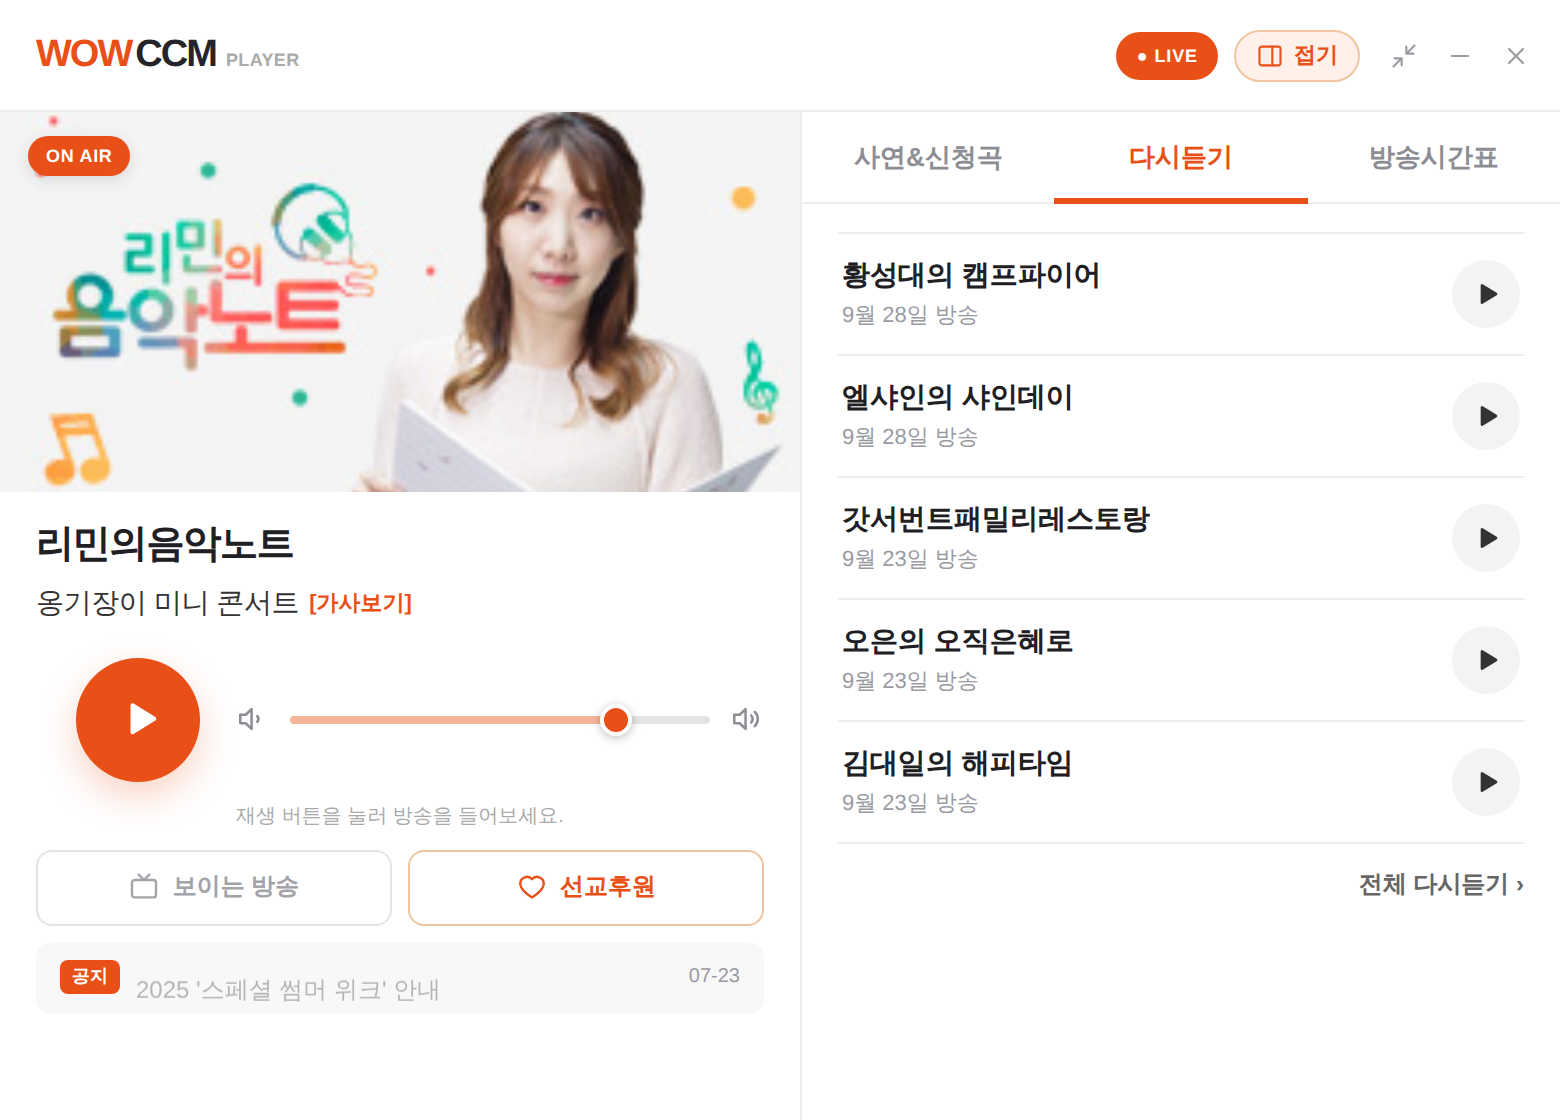
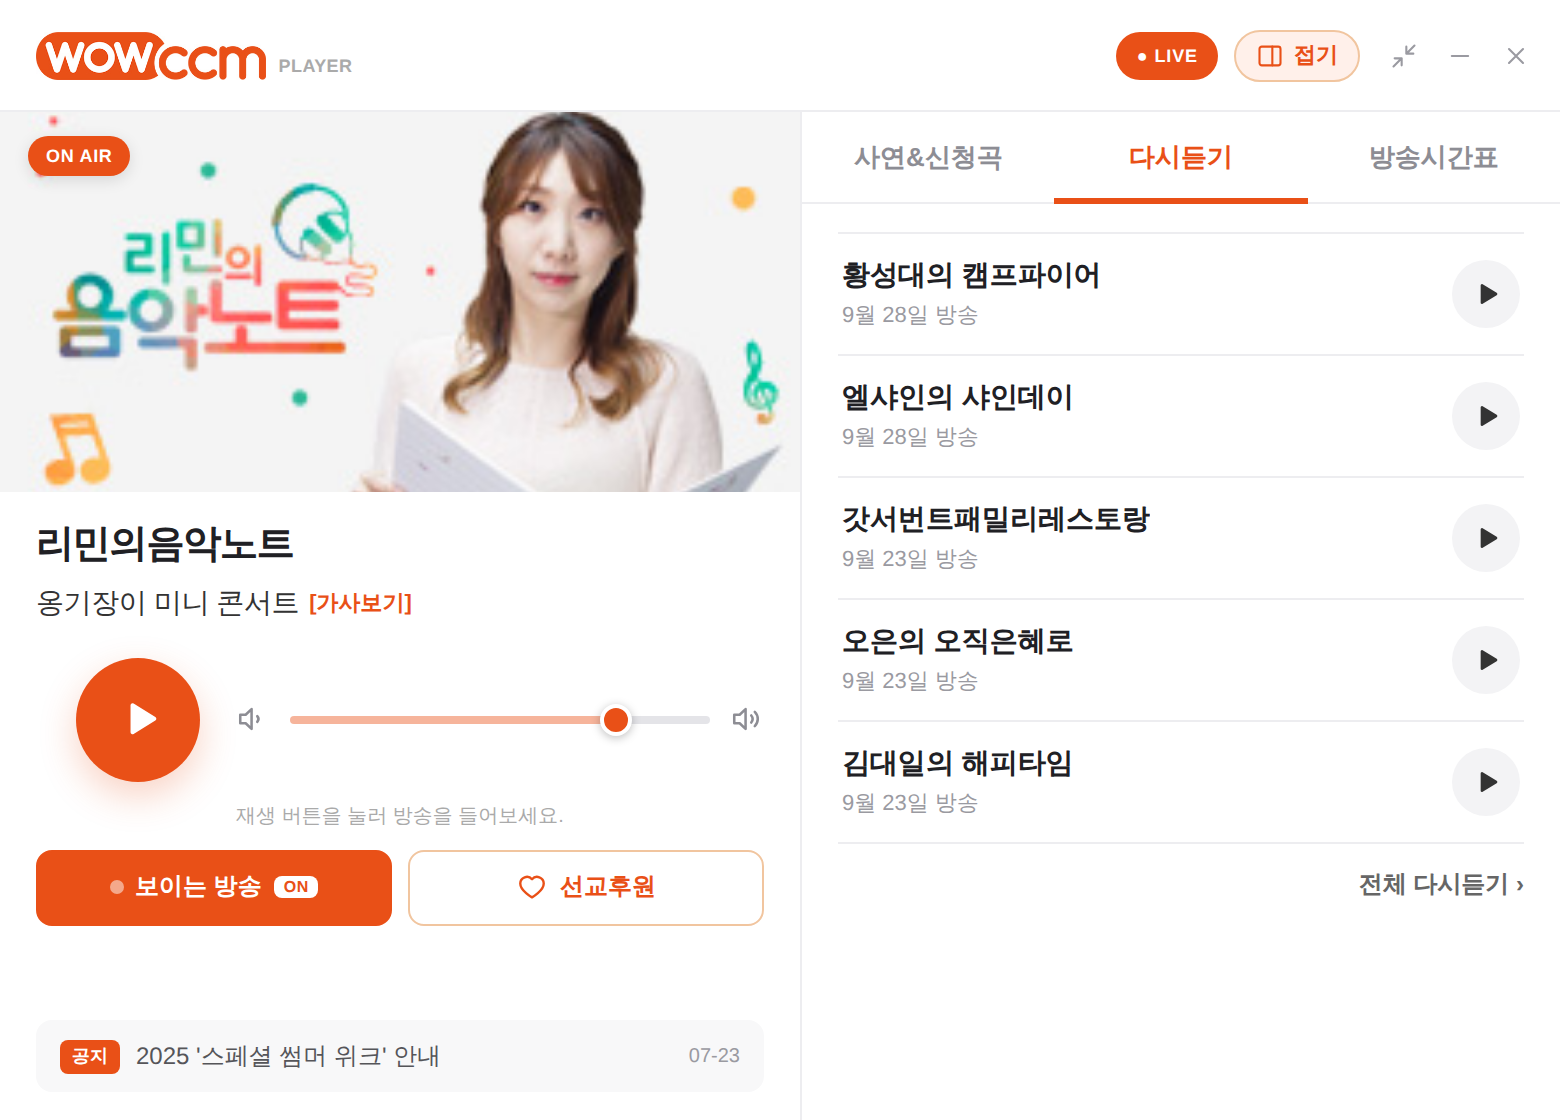
와우씨씨엠 로고 이미지 적용, 공지를 왼쪽 창 맨 아래로 이동
- 헤더 로고를 홈페이지 로고(wowccm_logo.jpg)로 교체
- 남는 공간을 버튼과 공지 사이로 보내 공지가 오른쪽 사연 입력창과 같은 높이에 오도록 함

Claude-Session: https://claude.ai/code/session_018gPLBYPafc4p3ZkZAQycUv

Changed region(s): [[0.0, 0.75, 0.2769, 0.9688], [0.0, 0.0312, 0.2154, 0.0938]]

diff --git a/src/styles.css b/src/styles.css
@@ -30,7 +30,10 @@ input { font: inherit; color: inherit; }
 .app { display: flex; flex-direction: column; height: 100%; }
 /* 왼쪽: 플레이어(폭 고정) / 오른쪽: 사연·다시듣기·방송시간표 */
 .body { flex: 1; min-height: 0; display: flex; }
-.player-col { flex: 0 0 400px; width: 400px; min-height: 0; overflow-y: auto; overflow-x: hidden; background: #fff; }
+.player-col {
+  flex: 0 0 400px; width: 400px; min-height: 0; overflow-y: auto; overflow-x: hidden; background: #fff;
+  display: flex; flex-direction: column;
+}
 .side { flex: 1; min-width: 0; display: flex; flex-direction: column; border-left: 1px solid var(--line); background: #fff; }
 .side__body { flex: 1; min-height: 0; overflow-y: auto; }
 
@@ -40,9 +43,9 @@ input { font: inherit; color: inherit; }
   display: flex; align-items: center; justify-content: space-between;
   background: #fff; border-bottom: 1px solid var(--line);
 }
-.logo { display: flex; align-items: baseline; font-size: 19px; font-weight: 900; letter-spacing: -1px; color: #252529; }
-.logo__wow { color: var(--accent); margin-right: 2px; }
-.logo small { margin-left: 5px; font-size: 9px; font-weight: 800; letter-spacing: 0.2px; color: #aaa; }
+.logo { display: flex; align-items: flex-end; gap: 6px; }
+.logo__img { display: block; height: 24px; width: auto; }
+.logo small { font-size: 9px; font-weight: 800; letter-spacing: 0.2px; color: #aaa; line-height: 1; padding-bottom: 2px; }
 .header__right { display: flex; align-items: center; gap: 8px; }
 .live, .sidebtn { white-space: nowrap; flex-shrink: 0; }
 /* 오른쪽 창을 접은 좁은 화면에서는 로고 옆 PLAYER 글자를 숨긴다 */
@@ -134,7 +137,9 @@ input { font: inherit; color: inherit; }
 .controls__status { margin: 10px 0 0; text-align: center; font-size: 10px; color: #aaa; min-height: 14px; }
 
 /* 보이는 방송·선교후원·공지 */
-.extras { padding: 0 18px 16px; background: #fff; display: flex; flex-direction: column; gap: 8px; }
+.extras { flex: 1; padding: 0 18px 14px; background: #fff; display: flex; flex-direction: column; gap: 8px; }
+/* 남는 공간은 버튼과 공지 사이로 보내 공지를 창 맨 아래에 붙인다 */
+.extras .notice { margin-top: auto; }
 .extras__links { display: grid; grid-template-columns: 1fr 1fr; gap: 8px; }
 .linkbtn {
   display: flex; align-items: center; justify-content: center; gap: 6px; height: 38px;

diff --git a/src/components/Header.tsx b/src/components/Header.tsx
@@ -12,8 +12,8 @@ export function Header({ onAir, onMini, sideOpen, onToggleSide }: Props) {
   return (
     <header className="header" data-tauri-drag-region>
       <div className="logo" data-tauri-drag-region>
-        <span className="logo__wow">WOW</span>CCM
-        <small>PLAYER</small>
+        <img src="/wowccm-logo.jpg" alt="WOWCCM" className="logo__img" data-tauri-drag-region />
+        <small data-tauri-drag-region>PLAYER</small>
       </div>
       <div className="header__right" data-tauri-drag-region>
         <span className={`live ${onAir ? "" : "live--off"}`}>● LIVE</span>
